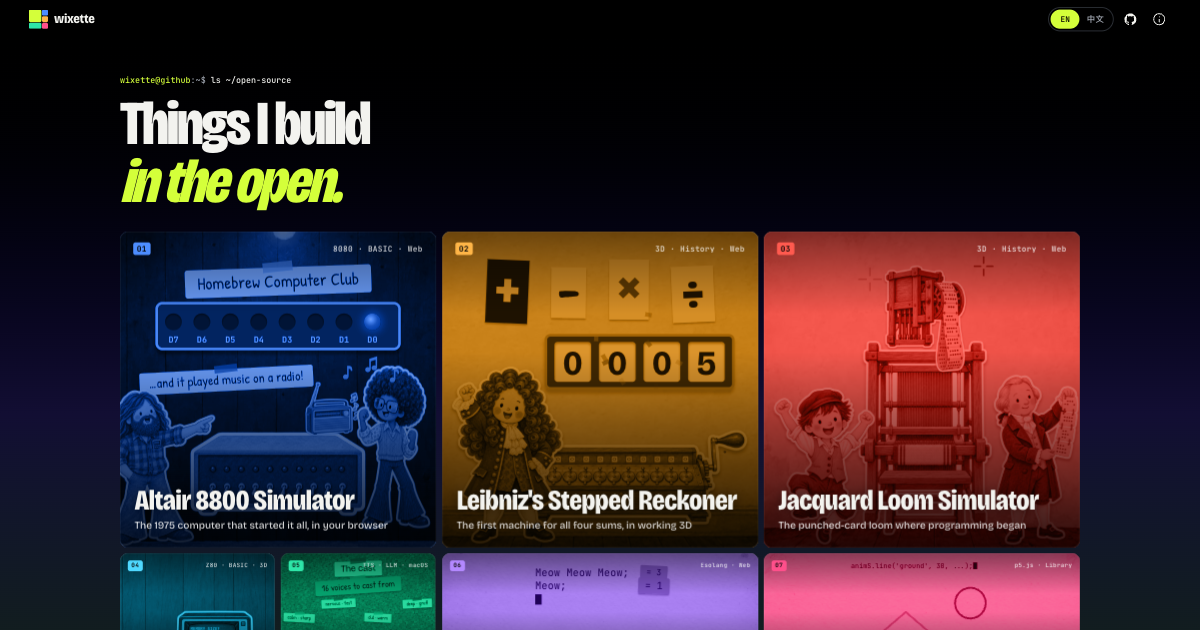
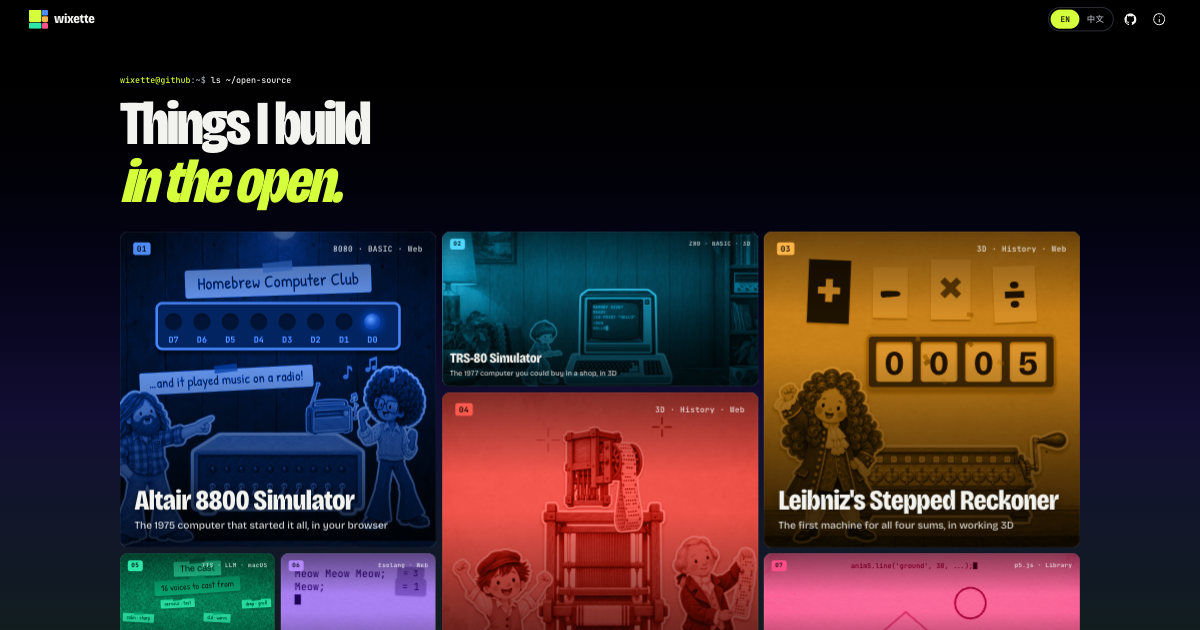
Reorder the showcases by priority
8800, TRS-80, Leibniz, Jacquard, Huashuo, Meowlang, p5.animS. Every row
stays full at every width; the link preview and the docs follow the order.

diff --git a/site/showcases/index.js b/site/showcases/index.js
@@ -33,6 +33,17 @@ export const SHOWCASES = [
     composition: () => import('./8800-simulator/composition.js'),
   },
   {
+    id: 'trs-80-simulator',
+    repo: 'https://github.com/wixette/trs-80-simulator',
+    demo: { en: 'https://wixette.github.io/trs-80-simulator/', zh: 'https://wixette.github.io/trs-80-simulator/' },
+    emphasis: 'normal',
+    accent: '#4fd8ff',
+    title: { en: 'TRS-80 Simulator', zh: 'TRS-80 模拟器' },
+    tagline: { en: 'The 1977 computer you could buy in a shop, in 3D', zh: '1977 年开箱即用的家用电脑，3D 版' },
+    tags: ['Z80', 'BASIC', '3D'],
+    composition: () => import('./trs-80-simulator/composition.js'),
+  },
+  {
     id: 'leibniz-stepped-reckoner',
     repo: 'https://github.com/wixette/leibniz-stepped-reckoner',
     demo: { en: 'https://wixette.github.io/leibniz-stepped-reckoner/', zh: 'https://wixette.github.io/leibniz-stepped-reckoner/' },
@@ -53,17 +64,6 @@ export const SHOWCASES = [
     tagline: { en: 'The punched-card loom where programming began', zh: '打孔卡片织布机：编程从这里开始' },
     tags: ['3D', 'History', 'Web'],
     composition: () => import('./jacquard-loom-simulator/composition.js'),
-  },
-  {
-    id: 'trs-80-simulator',
-    repo: 'https://github.com/wixette/trs-80-simulator',
-    demo: { en: 'https://wixette.github.io/trs-80-simulator/', zh: 'https://wixette.github.io/trs-80-simulator/' },
-    emphasis: 'normal',
-    accent: '#4fd8ff',
-    title: { en: 'TRS-80 Simulator', zh: 'TRS-80 模拟器' },
-    tagline: { en: 'The 1977 computer you could buy in a shop, in 3D', zh: '1977 年开箱即用的家用电脑，3D 版' },
-    tags: ['Z80', 'BASIC', '3D'],
-    composition: () => import('./trs-80-simulator/composition.js'),
   },
   {
     id: 'huashuo',

diff --git a/site/index.html b/site/index.html
@@ -60,7 +60,7 @@
         "./js/focus.js": "./js/focus.js?v=13677ddece",
         "./js/grid-width.js": "./js/grid-width.js?v=3c45214bf3",
         "./js/grid.js": "./js/grid.js?v=94fecd0a71",
-        "./js/hashes.js": "./js/hashes.js?v=eaf8eca3dd",
+        "./js/hashes.js": "./js/hashes.js?v=aa761c6719",
         "./js/i18n.js": "./js/i18n.js?v=c42a48984a",
         "./js/icons.js": "./js/icons.js?v=142445bcec",
         "./js/layout.js": "./js/layout.js?v=763a89a89b",
@@ -72,7 +72,7 @@
         "./showcases/8800-simulator/composition.js": "./showcases/8800-simulator/composition.js?v=bb7cd89c72",
         "./showcases/huashuo/assets.js": "./showcases/huashuo/assets.js?v=294002dad4",
         "./showcases/huashuo/composition.js": "./showcases/huashuo/composition.js?v=b09917443f",
-        "./showcases/index.js": "./showcases/index.js?v=b98eb49bc7",
+        "./showcases/index.js": "./showcases/index.js?v=8a033d4473",
         "./showcases/jacquard-loom-simulator/assets.js": "./showcases/jacquard-loom-simulator/assets.js?v=ec207dfa1d",
         "./showcases/jacquard-loom-simulator/composition.js": "./showcases/jacquard-loom-simulator/composition.js?v=aed787d106",
         "./showcases/leibniz-stepped-reckoner/assets.js": "./showcases/leibniz-stepped-reckoner/assets.js?v=7a47f47b9c",

diff --git a/site/js/hashes.js b/site/js/hashes.js
@@ -5,7 +5,7 @@ export const HASHES = {
   'images/apple-touch-icon.png': 'eba893756d',
   'images/favicon.svg': '12d4cbe1ce',
   'images/logo.svg': '12d4cbe1ce',
-  'images/og.png': 'b331ea1e3a',
+  'images/og.png': 'c5fcceb8cd',
   'showcases/8800-simulator/assets/altair.webp': '0737c6fcec',
   'showcases/8800-simulator/assets/bg_dorm.webp': '95310b3e46',
   'showcases/8800-simulator/assets/bg_garage.webp': '40389f0a62',

diff --git a/docs/design.md b/docs/design.md
@@ -103,7 +103,7 @@ the dialog uses a Material 3 dark tonal surface. On top of that:
 - **One acid-lime site accent** (`#d4ff3a`) for focus rings, the prompt cursor, the active
   language and links in the dialog.
 - **One accent per project**, chosen from its subject: 8800 electric blue (the Altair's front
-  panel), Leibniz brass, Jacquard silk red, TRS-80 phosphor cyan, Huashuo jade, Meowlang
+  panel), TRS-80 phosphor cyan, Leibniz brass, Jacquard silk red, Huashuo jade, Meowlang
   violet, p5.animS p5's pink. The static tile is tinted with it; the playing tile shows the
   animation in its own colours with an accent frame and progress bar.
 - **Headline:** two lines of a fixed height (`--line`, the same in both languages), so
@@ -348,7 +348,7 @@ the browser), sets `<html lang>`, the title and the description, and notifies th
 Strings live in `js/strings.js` (the page), `showcases/index.js` (titles, taglines, links)
 and each composition (its text). Tests check that every key has both languages.
 
-Project names in Chinese: Altair 8800 模拟器, 莱布尼茨步进计算器, 提花织机模拟器, TRS-80 模拟器, 话说, 喵语言, p5.animS.
+Project names in Chinese: Altair 8800 模拟器, TRS-80 模拟器, 莱布尼茨步进计算器, 提花织机模拟器, 话说, 喵语言, p5.animS.
 
 ## 8. Accessibility
 

diff --git a/docs/requirements.md b/docs/requirements.md
@@ -38,7 +38,7 @@ Status: agreed for v1 (2026-10-22). Changes are made here first, then in
 
 | # | Requirement |
 |---|---|
-| R4.1 | One tile per project, in a fixed order. v1: 8800 Simulator, Leibniz's Stepped Reckoner, Jacquard Loom Simulator, TRS-80 Simulator, 话说 Huashuo, Meowlang, p5.animS. |
+| R4.1 | One tile per project, in a fixed order. v1: 8800 Simulator, TRS-80 Simulator, Leibniz's Stepped Reckoner, Jacquard Loom Simulator, 话说 Huashuo, Meowlang, p5.animS. |
 | R4.2 | Some tiles are **heroes** and are shown larger than the others on every screen. v1: 8800, Leibniz and Jacquard. |
 | R4.3 | The tiles form a live-tile grid (Metro style) with **every row completely filled**, on wide desktops, normal desktops, tablets and phones. |
 | R4.4 | Static state: a still picture from the project's animation, styled to the page, with the project's title and a one-line tagline. |
